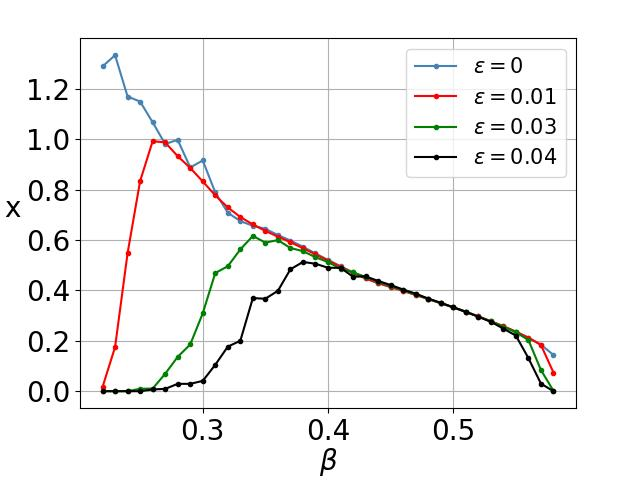
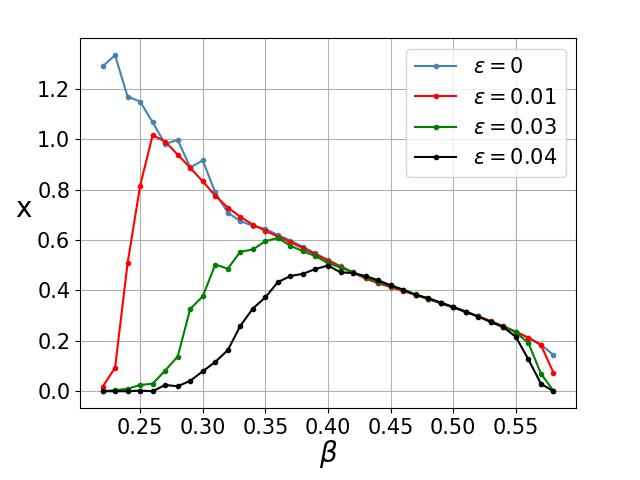
Upd

diff --git a/grpah/runner.py b/grpah/runner.py
@@ -942,8 +942,8 @@ def run_cyclic_mean():
         .adjust(left=0.125, right=0.9, top=0.92, bottom=0.15)
         .setup_x_label('$\\beta$', font_size=20)
         .setup_y_label('x', font_size=20, label_pad=10)
-        .setup_y_ticks(font_size=20)
-        .setup_x_ticks(font_size=20, ticks=np.arange(0.2, 0.6, 0.1))
+        .setup_y_ticks(font_size=15)
+        .setup_x_ticks(font_size=15, ticks=np.arange(0.2, 0.6, 0.05))
         .setup_y_scale(scale.linear)
         .setup_grid(grid.major)
         # .setup_title('EV cyclic')
@@ -1050,8 +1050,11 @@ def run_cyclic_variance():
     )
 
     (Plotter()
-        .setup_x_label('$\\beta$')
-        .setup_y_label('x')
+        .adjust(left=0.125, right=0.9, top=0.92, bottom=0.15)
+        .setup_x_label('$\\beta$', font_size=20)
+        .setup_y_label('x', font_size=20, label_pad=10)
+        .setup_y_ticks(font_size=15)
+        .setup_x_ticks(font_size=15, ticks=np.arange(0.2, 0.6, 0.05))
         .setup_y_scale(scale.log)
         .setup_grid(grid.major)
         # .setup_title('Variance cyclic')
@@ -1059,7 +1062,7 @@ def run_cyclic_variance():
         .plot_line(source1, '.', colors.red, '$\\varepsilon = 0.01$')
         .plot_line(source2, '.', colors.green, '$\\varepsilon = 0.03$')
         .plot_line(source3, '.', colors.black, '$\\varepsilon = 0.04$')
-        .legend()
+        .legend(font_size=15)
         .show_last())
 
 
@@ -1568,8 +1571,6 @@ def run_machalanobis_beta_noise():
         f=lambda b, x: function.f(1, b, x)
     )
 
-    # Проверь, что используется в хаосе и в циклах. Похоже где-то перепутал местами
-
     stable_equilibrium = equilibrium[1]
     unstable_equilibrium = equilibrium[0]
     prototype_equilibrium = equilibrium[2]
@@ -1578,61 +1579,59 @@ def run_machalanobis_beta_noise():
     unstable_equilibrium = convert_line_to_dict(unstable_equilibrium)
     prototype_equilibrium = convert_line_to_dict(prototype_equilibrium)
 
+    # Что-то намудрил с m
+
     line0 = convert_line_to_dict(m_beta[0])
     line1 = convert_line_to_dict(m_beta[2])
     line2 = convert_line_to_dict(m_beta[4])
     line3 = convert_line_to_dict(m_beta[7])
     lines = [line0, line1, line2, line3]
 
+    result = dict()
+    for b in stable_equilibrium.keys():
+        result[b] = 0
+
     mahalanobis0 = Line()
-    for b in stable_equilibrium.keys():
-        y_s = stable_equilibrium[b]
-        y_n = unstable_equilibrium[b]
-
-        for line in lines:
-            m = None
-            if b in line.keys():
-                m = line[b]
-
-            metrics = None
-            if m is not None:
-                metrics = abs(y_s - y_n) / np.sqrt(m)
-                # metrics = abs(y_s - y_n)
-
-            if metrics is not None:
-                mahalanobis0.add_x(b).add_y(metrics)
-
-    line0 = convert_line_to_dict(m_beta[0])
-    line1 = convert_line_to_dict(m_beta[1])
-    line2 = convert_line_to_dict(m_beta[5])
-    line3 = convert_line_to_dict(m_beta[8])
-    lines = [line0, line1, line2, line3]
-
     mahalanobis1 = Line()
-    for b in stable_equilibrium.keys():
-        y_s = stable_equilibrium[b]
-        y_p = prototype_equilibrium[b]
+    for b in result.keys():
+        y_s = None
+        if b in stable_equilibrium.keys():
+            y_s = stable_equilibrium[b]
+
+        y_n = None
+        if b in unstable_equilibrium.keys():
+            y_n = unstable_equilibrium[b]
+
+        y_p = None
+        if b in prototype_equilibrium.keys():
+            y_p = prototype_equilibrium[b]
 
         for line in lines:
             m = None
             if b in line.keys():
                 m = line[b]
 
-            metrics = None
-            if m is not None:
-                metrics = abs(y_s - y_p) / np.sqrt(m)
-                # metrics = abs(y_s - y_p)
+            metrics0 = None
+            if y_s is not None and y_n is not None and m is not None:
+                metrics0 = abs(y_s - y_n) / np.sqrt(m)
 
-            if metrics is not None:
-                mahalanobis1.add_x(b).add_y(metrics)
+            metrics1 = None
+            if y_s is not None and y_p is not None and m is not None:
+                metrics1 = abs(y_s - y_p) / np.sqrt(m)
+
+            if metrics0 is not None:
+                mahalanobis0.add_x(b).add_y(metrics0)
+
+            if metrics1 is not None:
+                mahalanobis1.add_x(b).add_y(metrics1)
 
     plotter = (Plotter()._setup('$\\beta$', 'M', 'linear', 'major', 'Mahalanobis metrics'))
 
     plotter.plot_line(mahalanobis0, '.', 'red')
     plotter.plot_line(mahalanobis1, '.', 'blue')
 
-    # plotter.show_last()
-    plotter.show()
+    plotter.show_last()
+    # plotter.show()
 
 
 def run_machalanobis_alpha_noise():

diff --git a/latex/stochastic/texfiles/stochastic_sensetivity_function.tex b/latex/stochastic/texfiles/stochastic_sensetivity_function.tex
@@ -70,6 +70,7 @@
             \label{bifurcation_x_0_2_a_1_beta_chaos_fss_segment_chaos_down}
         }
             
+        \captionsetup{justification=centering}
         \caption{Доверительная полоса для модели \ref{beta_chaos} (с \(\beta\)-шумом) при \(\varepsilon = 0.001\)}
     \end{figure}
 
@@ -89,5 +90,6 @@
             \label{SSF_max}
         }  
             
+        \captionsetup{justification=centering}
         \caption{Функции стохастической чувствительности для моделей (\ref{alpha_chaos}), (\ref{beta_chaos}) и (\ref{additive_chaos})}
     \end{figure}

diff --git a/latex/stochastic/texfiles/metrics.tex b/latex/stochastic/texfiles/metrics.tex
@@ -31,6 +31,7 @@
                 \label{mahalanobis_metrics_additive_noise}
             }
                 
+            \captionsetup{justification=centering}
             \caption{Метрика Махаланобис}
         \end{minipage}
         \hfill
@@ -51,6 +52,7 @@
                 \label{euclid_metrics_additive_noise}
             }
             
+            \captionsetup{justification=centering}
             \caption{Евклидова метрика}
         \end{minipage}
     \end{figure}

diff --git a/grpah/main.py b/grpah/main.py
@@ -26,7 +26,7 @@ if __name__ == "__main__":
     # run_bifurcation()
 
     # Показать графики бифуркации с разными шумами
-    run_compare_chaos_bifurcation()
+    # run_compare_chaos_bifurcation()
 
     # Показать график бифуркации с absorbing area
     # run_bifurcation_with_absorbing_area()

diff --git a/latex/stochastic/texfiles/expected_value_and_dispersion.tex b/latex/stochastic/texfiles/expected_value_and_dispersion.tex
@@ -13,6 +13,7 @@
             \label{variance_cyclic}
         }
         
+        \captionsetup{justification=centering}
         \caption{Бифуркационная диаграмма модели (\ref{beta_chaos}) (с \(\beta\)-шумом), \(\varepsilon = 0.01\)}
     \end{figure}
         

diff --git a/latex/stochastic.tex b/latex/stochastic.tex
@@ -10,8 +10,6 @@
 
     \input{stochastic/texfiles/stochastic_sensetivity_function.tex}
 
-    % \input{stochastic/texfiles/fsc.tex}
-
     \input{stochastic/texfiles/critical_intensity.tex}
 
     \input{stochastic/texfiles/metrics.tex}

diff --git a/latex/stochastic/texfiles/critical_intensity.tex b/latex/stochastic/texfiles/critical_intensity.tex
@@ -24,6 +24,7 @@
             \label{critical_intensity_additive_noise}
         }
             
+        \captionsetup{justification=centering}
         \caption{Критическая интенсивность}
     \end{figure}
 
